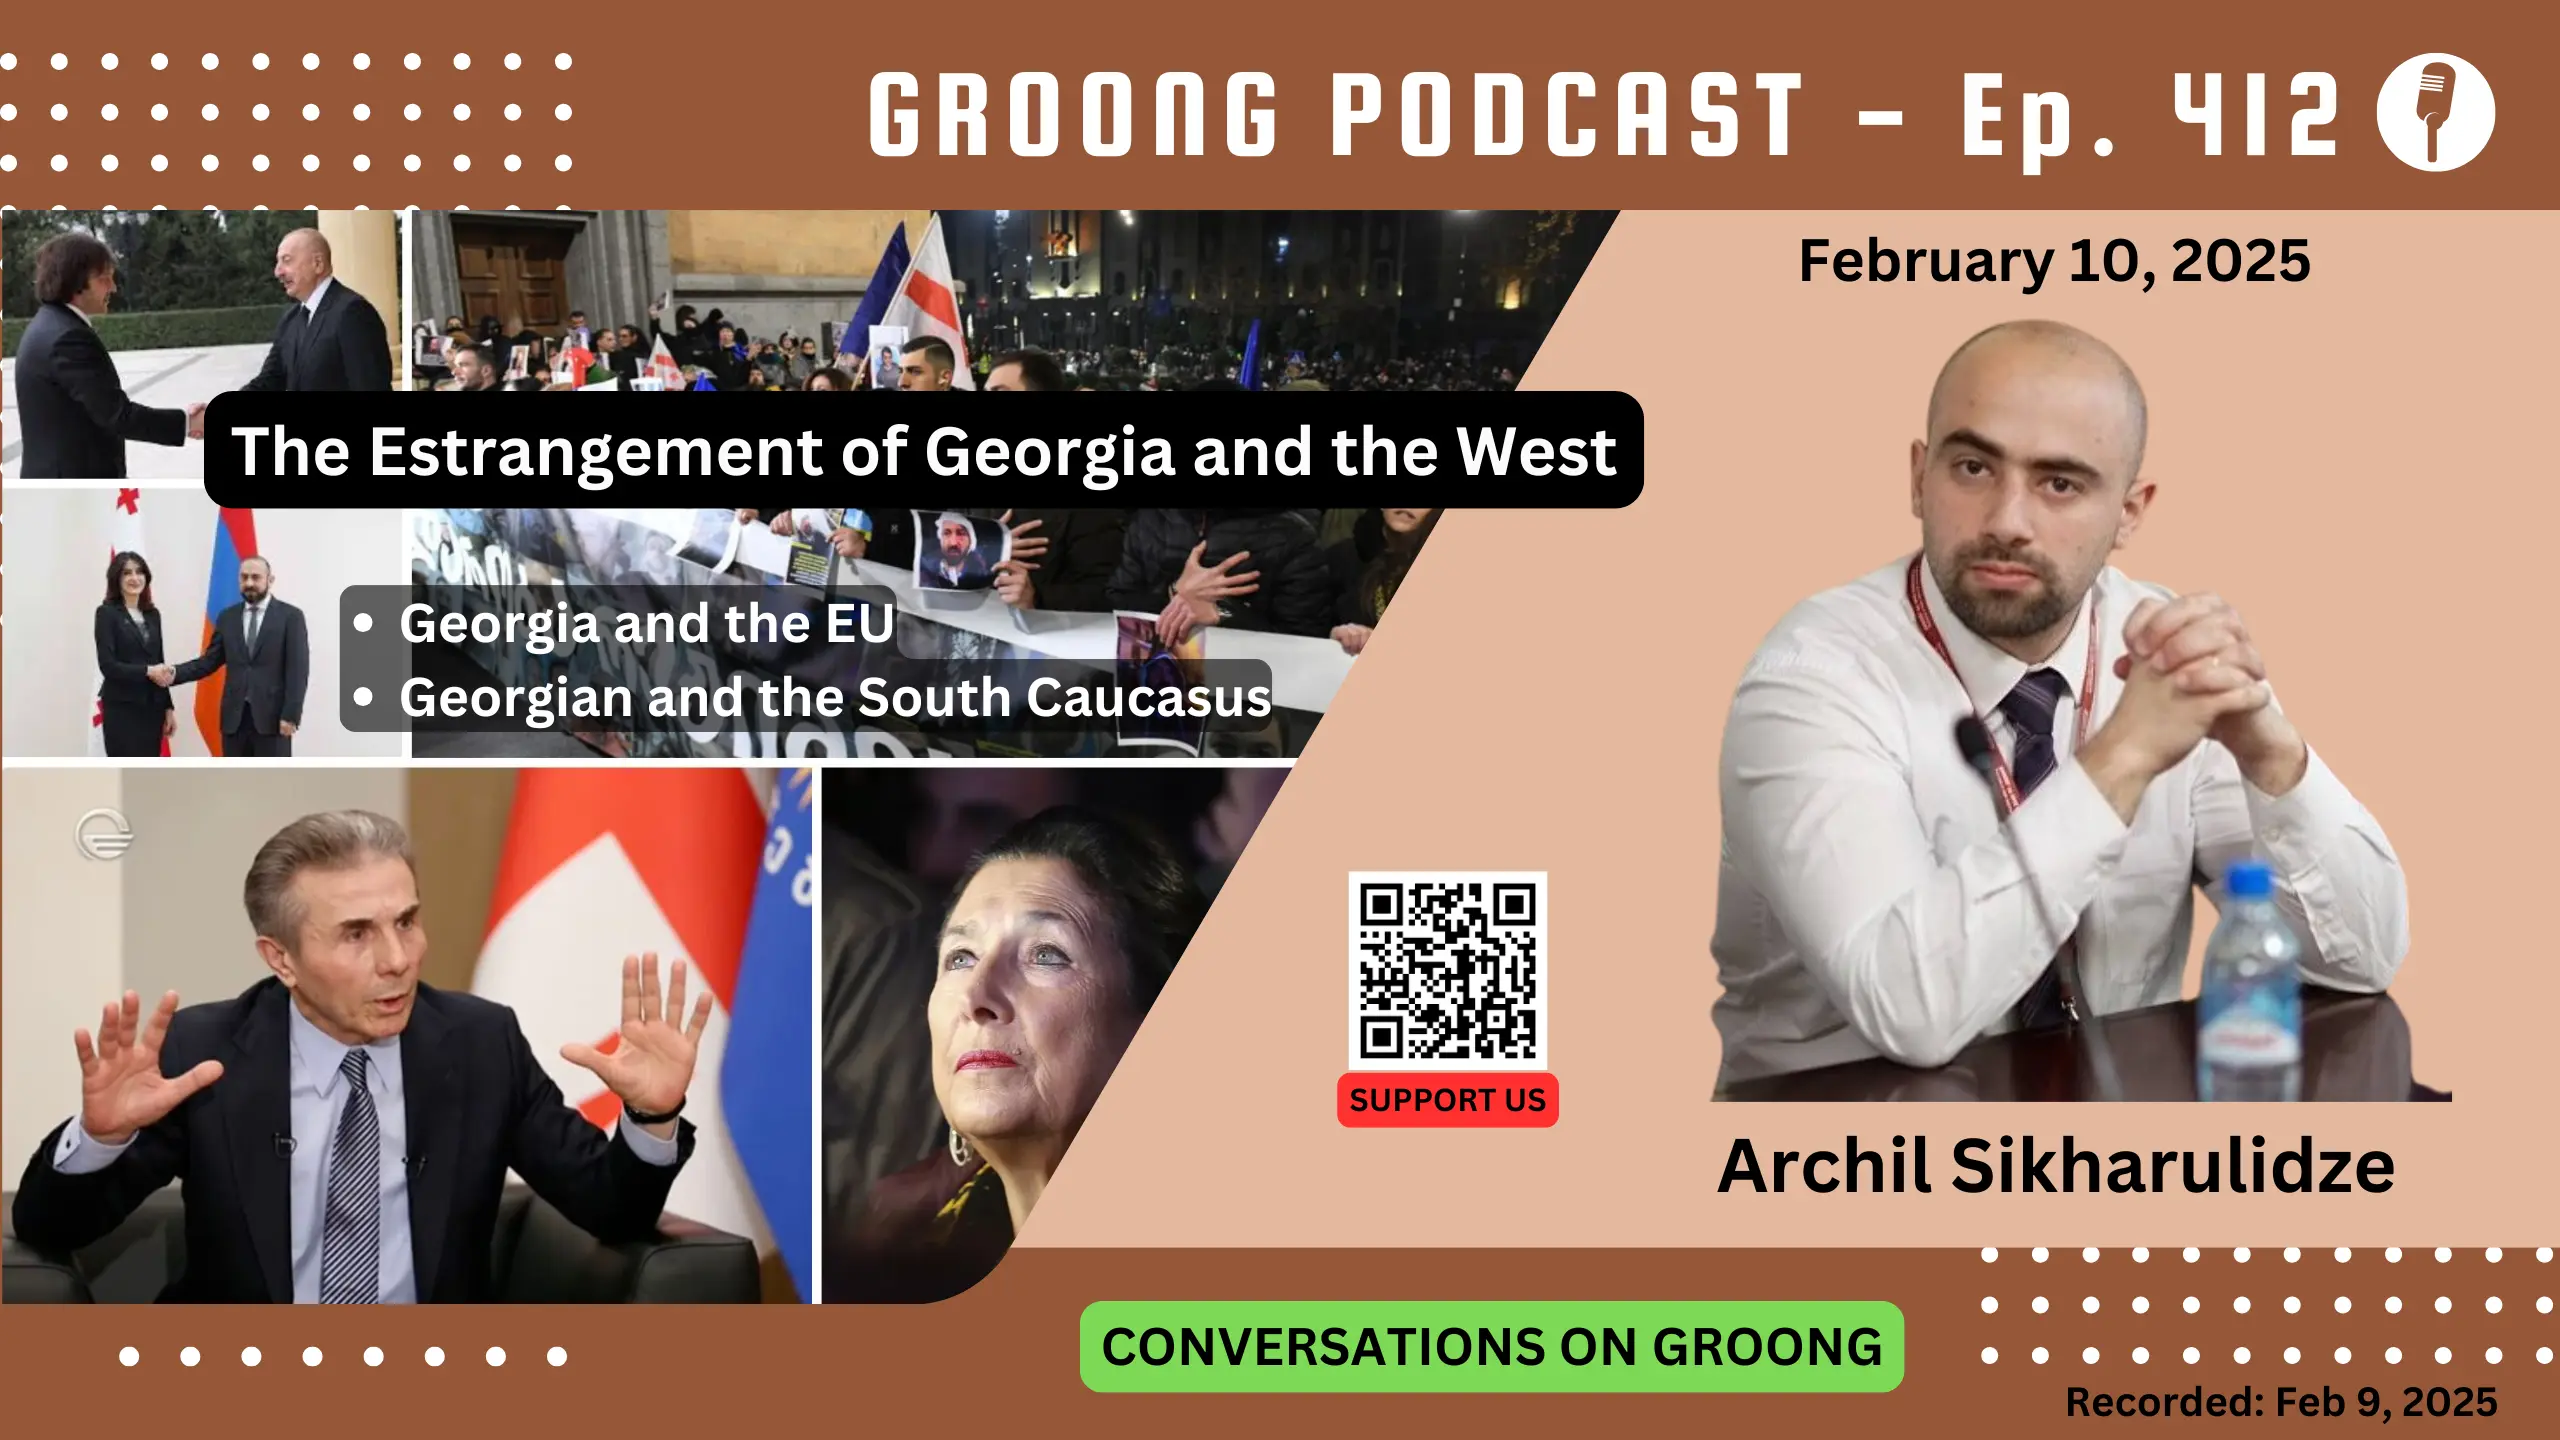
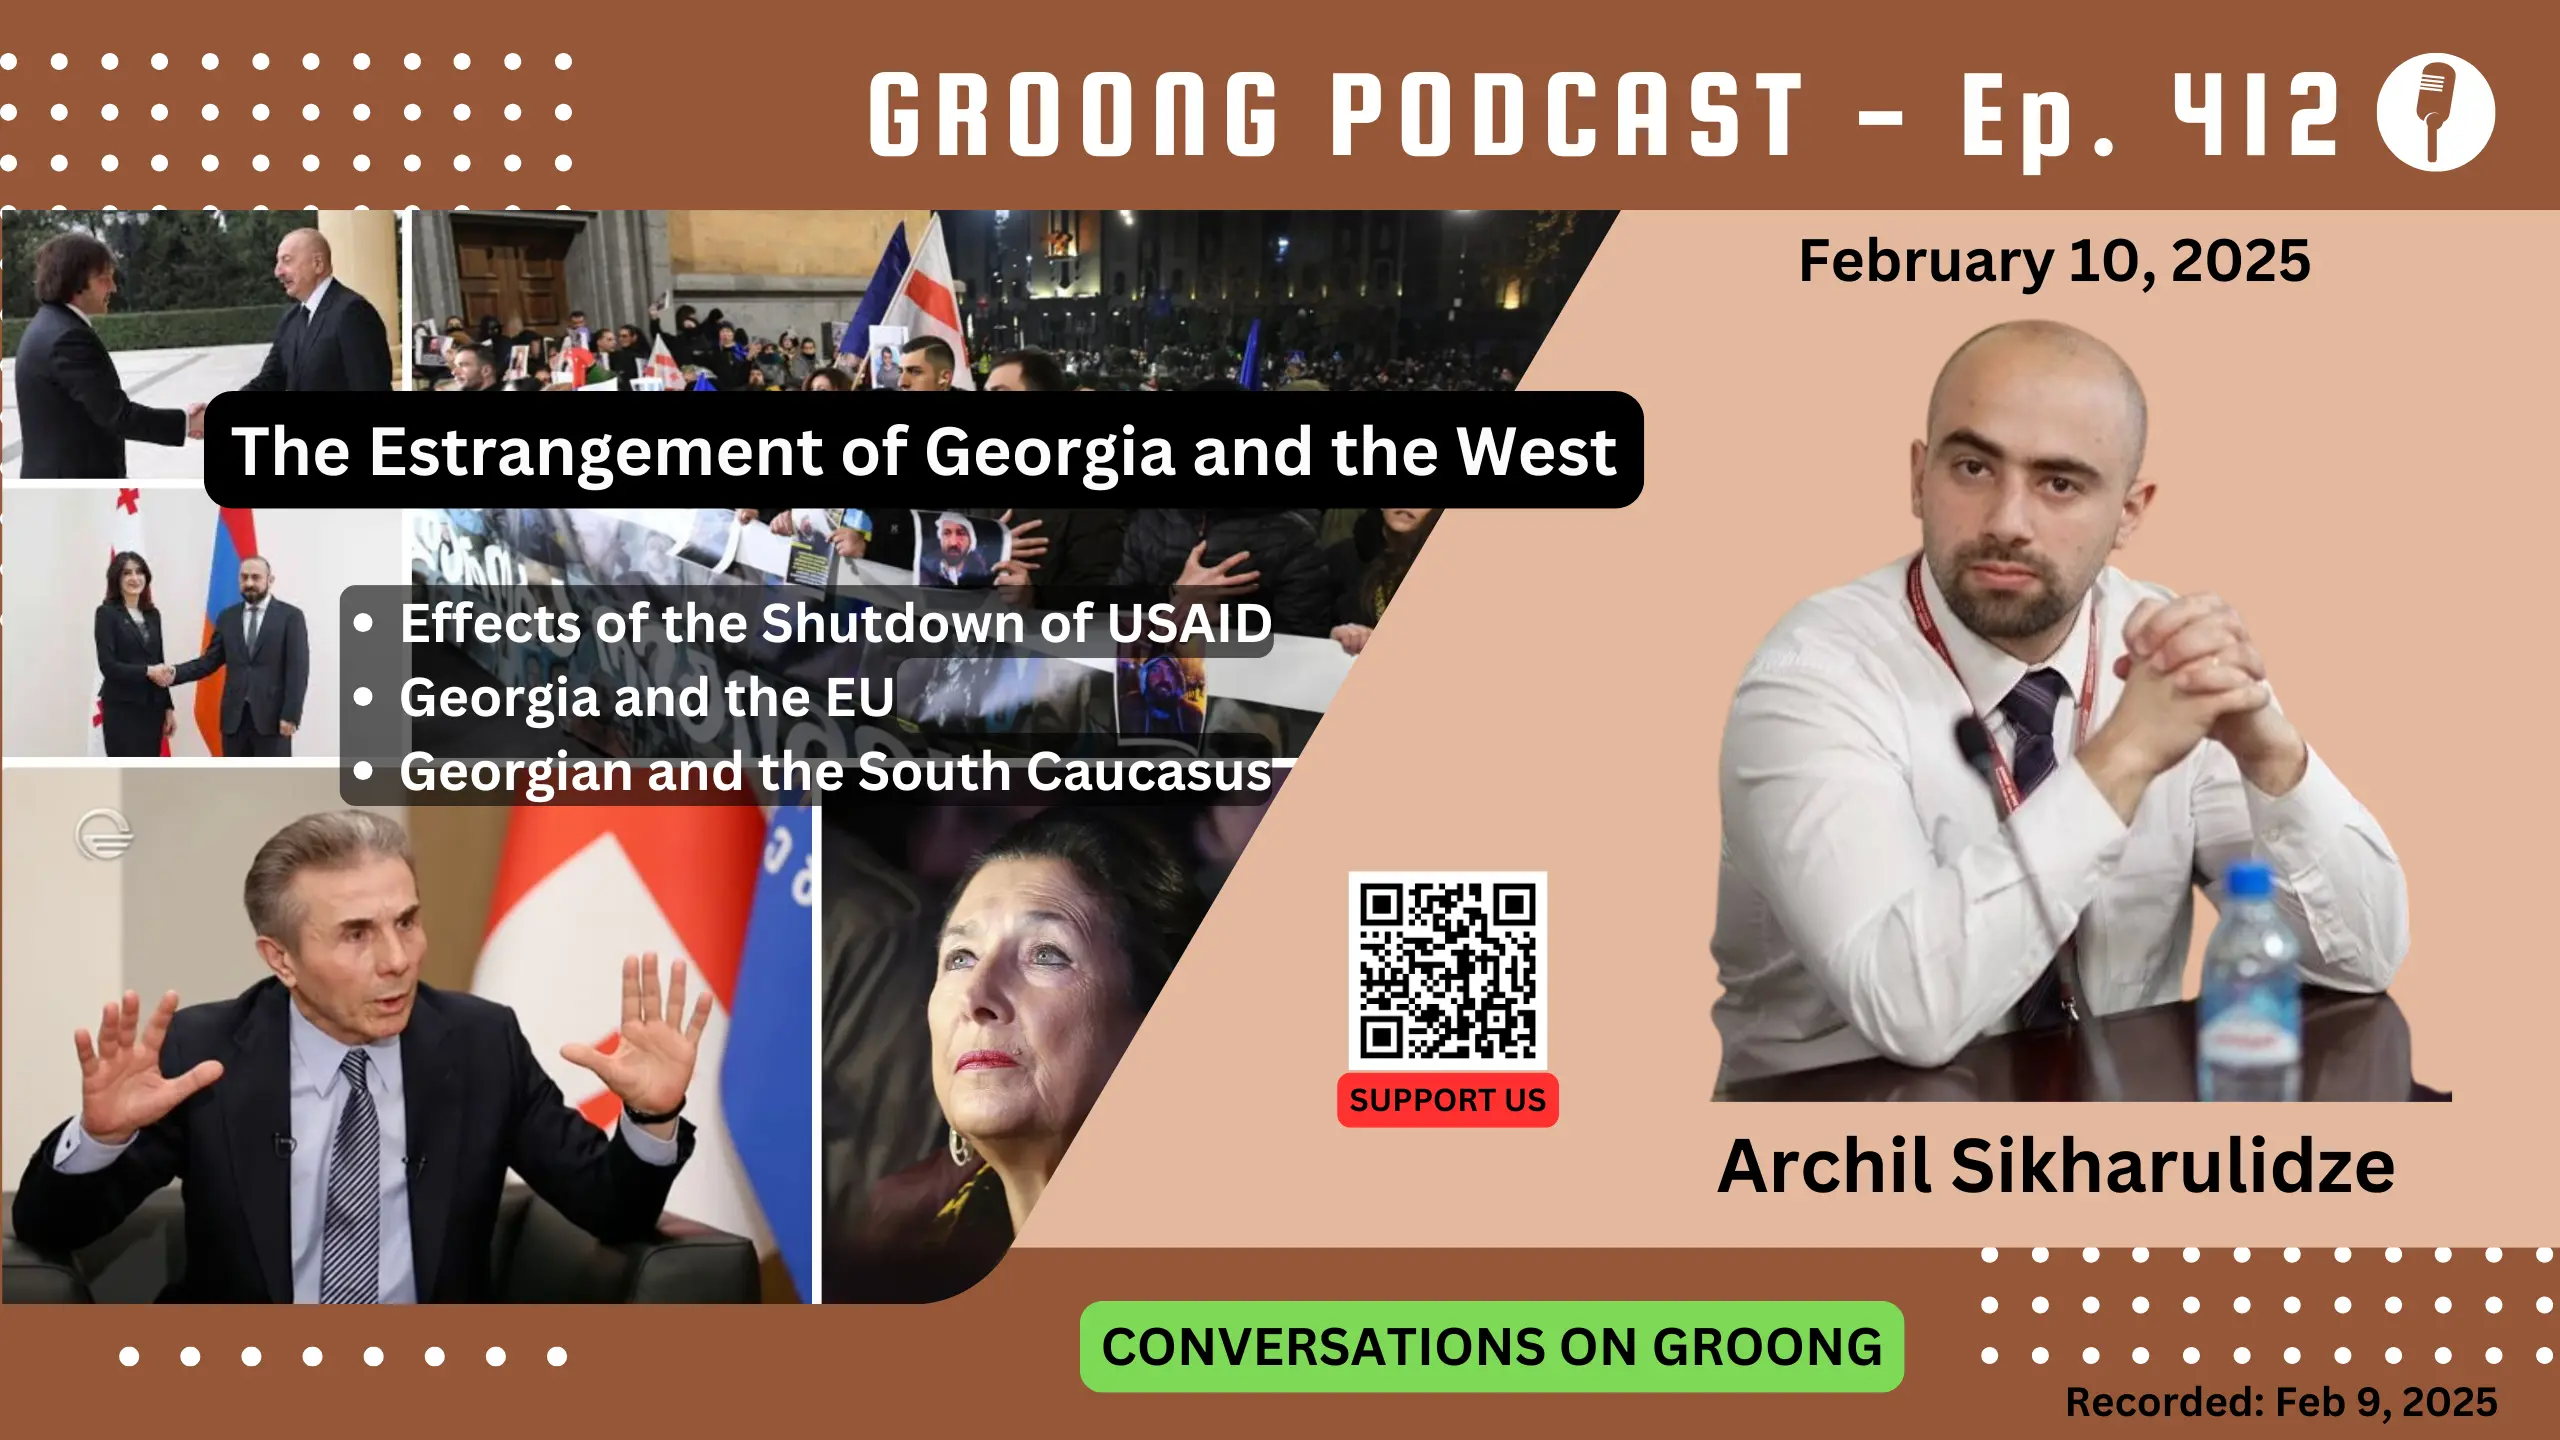
Update ep 411

Changed region(s): [[0.125, 0.4062, 0.5, 0.5625]]

diff --git a/content/episode/412-archil-sikharulidze-the-estrangement-of-georgia-and-the-west.md b/content/episode/412-archil-sikharulidze-the-estrangement-of-georgia-and-the-west.md
@@ -3,11 +3,11 @@ Date = 2025-02-11T01:00:00-08:00
 upcoming = true
 
 title = "Archil Sikharulidze - The Estrangement of Georgia and the West | Ep 412, Feb 10, 2025"
-subtitle = "Conversations on Groong - 02/11/2025"
+subtitle = "Conversations on Groong - 02/10/2025"
 
-podcast_file = ""
-podcast_bytes = ""
-podcast_duration = ""
+podcast_file = "16597373-archil-sikharulidze-the-estrangement-of-georgia-and-the-west-ep-412-feb-10-2025.mp3"
+podcast_bytes = "33289762"
+podcast_duration = "2771"
 youtube = ""
 
 episode_image = "img/episode/412/thumbnail-412.webp"
@@ -34,6 +34,7 @@ Description = """
 * [Archil Sikharulidze](/guest/asikharulidze)
 
 #### Topics:
+* Effects of the Shutdown of USAID
 * Georgia and the EU
 * Georgia and the South Caucasus
 
